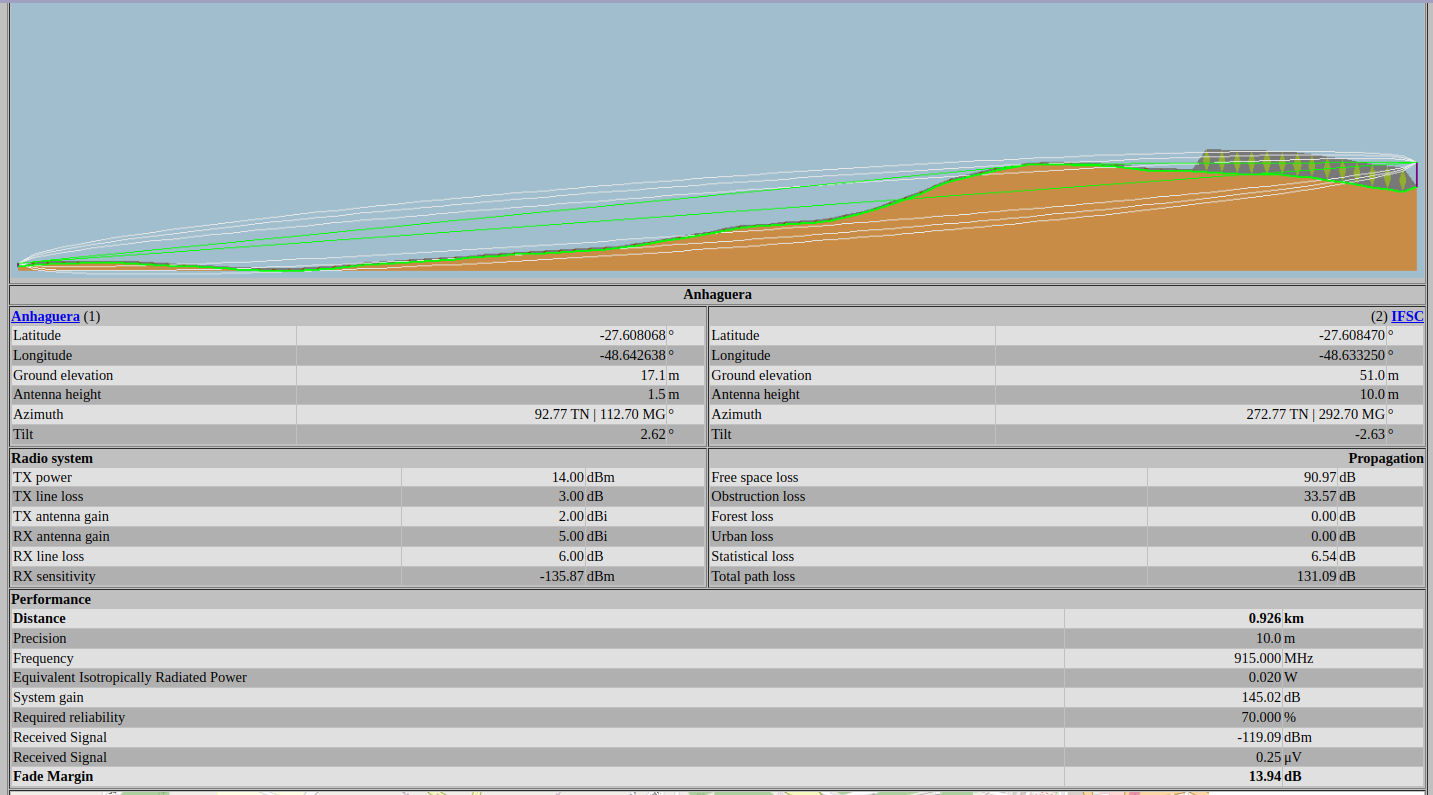
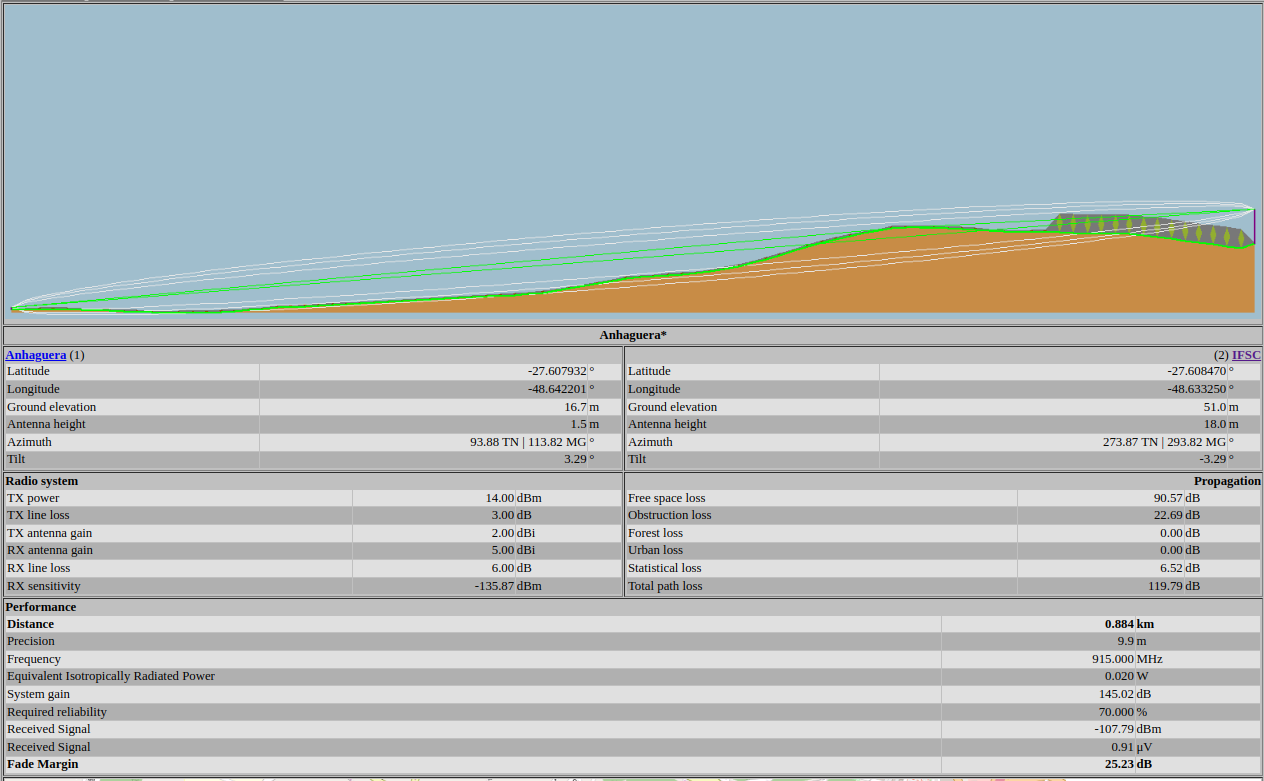
doc: Adicionando o mapa de calor

diff --git a/mapa_outdoor.html b/mapa_outdoor.html
@@ -25,7 +25,7 @@
             <meta name="viewport" content="width=device-width,
                 initial-scale=1.0, maximum-scale=1.0, user-scalable=no" />
             <style>
-                #map_121a8825ffa46cb51c034f2e1f05a461 {
+                #map_eda21be7cce033aeb74207998251bbf0 {
                     position: relative;
                     width: 100.0%;
                     height: 100.0%;
@@ -40,14 +40,14 @@
 <body>
     
     
-            <div class="folium-map" id="map_121a8825ffa46cb51c034f2e1f05a461" ></div>
+            <div class="folium-map" id="map_eda21be7cce033aeb74207998251bbf0" ></div>
         
 </body>
 <script>
     
     
-            var map_121a8825ffa46cb51c034f2e1f05a461 = L.map(
-                "map_121a8825ffa46cb51c034f2e1f05a461",
+            var map_eda21be7cce033aeb74207998251bbf0 = L.map(
+                "map_eda21be7cce033aeb74207998251bbf0",
                 {
                     center: [-27.606824, -48.623519],
                     crs: L.CRS.EPSG3857,
@@ -61,20 +61,20 @@
 
         
     
-            var tile_layer_2cdb3e89974e2c58b5be6eeca0de30e6 = L.tileLayer(
+            var tile_layer_e6294b6735290ec2152f6161271766a2 = L.tileLayer(
                 "https://{s}.tile.openstreetmap.org/{z}/{x}/{y}.png",
                 {"attribution": "Data by \u0026copy; \u003ca target=\"_blank\" href=\"http://openstreetmap.org\"\u003eOpenStreetMap\u003c/a\u003e, under \u003ca target=\"_blank\" href=\"http://www.openstreetmap.org/copyright\"\u003eODbL\u003c/a\u003e.", "detectRetina": false, "maxNativeZoom": 18, "maxZoom": 18, "minZoom": 0, "noWrap": false, "opacity": 1, "subdomains": "abc", "tms": false}
             );
         
     
-                tile_layer_2cdb3e89974e2c58b5be6eeca0de30e6.addTo(map_121a8825ffa46cb51c034f2e1f05a461);
+                tile_layer_e6294b6735290ec2152f6161271766a2.addTo(map_eda21be7cce033aeb74207998251bbf0);
     
-            var heat_map_ca6dc668bcdccb97c3d18f38a053e0ac = L.heatLayer(
-                [[-27.5957679, -48.6438065, 0.0874529333171384], [-27.6077626, -48.661695, 0.34009474067776013], [-27.6089226, -48.6418569, 0.5317307336857506], [-27.6075539, -48.6390241, 0.0], [-27.6042976, -48.6357047, 1.0]],
+            var heat_map_68692c0c6d5f5d441a361070a9348030 = L.heatLayer(
+                [[-27.6077626, -48.661695, 0.34009474067776013], [-27.6075539, -48.6390241, 0.0], [-27.6089226, -48.6418569, 0.5317307336857506], [-27.5957679, -48.6438065, 0.0874529333171384], [-27.6042976, -48.6357047, 1.0]],
                 {"blur": 15, "gradient": {"0.2": "deepskyblue", "0.4": "aqua", "0.6": "lime", "0.8": "gold", "0.9": "orange", "1.0": "red"}, "maxZoom": 18, "minOpacity": 0.3, "radius": 30}
             );
         
     
-                heat_map_ca6dc668bcdccb97c3d18f38a053e0ac.addTo(map_121a8825ffa46cb51c034f2e1f05a461);
+                heat_map_68692c0c6d5f5d441a361070a9348030.addTo(map_eda21be7cce033aeb74207998251bbf0);
 </script>
 </html>

diff --git a/main.py b/main.py
@@ -10,10 +10,6 @@ basedir = os.path.abspath(os.path.dirname(__file__))
 PotTx = 13.89
 
 
-def modelo(distancias, N, d0, pl_d0):
-    return pl_d0 - (10 * N * np.log10(np.divide(distancias, d0)))
-
-
 def coleta_dados(path):
     files = os.listdir(f"{basedir}/{path}")
 
@@ -57,13 +53,10 @@ def processa_dados(df: pd.DataFrame, d0, rssi_0):
     return parametro
 
 
-# df_indoor = coleta_dados('data/indoor')
 df_outdoor = coleta_dados("data/outdoor")
 
-# parametro_indoor = processa_dados(df_indoor, 52.29, -80.888889)
 parametro_outdoor = processa_dados(df_outdoor, 407.45, -77.800000)
 
-# print(parametro_indoor)
 print(parametro_outdoor)
 
 
@@ -74,21 +67,3 @@ cria_mapa(
     radius=30,
     centro=[-27.606824, -48.623519],
 )
-
-
-print("\n\nPrevisão a cada 500 metros")
-distancias = np.arange(1, 3502, 500)
-rssis = modelo(distancias=distancias, N=2.519, d0=407.45, pl_d0=-77.800000)
-std = df_outdoor["RSSI"].std()
-print(std)
-for rssi in rssis:
-    rssi = rssi + np.random.normal(0, std)  # Soma da variável aleatória gaussiana
-    print(f"{rssi}")
-
-print("\n\nPrevisão das distancias medidas")
-rssis_calculado = modelo(
-    distancias=df_outdoor["Distc"], N=2.519, d0=407.45, pl_d0=-77.800000
-)
-for rssi in rssis_calculado:
-    rssi = rssi + np.random.normal(0, std)  # Soma da variável aleatória gaussiana
-    print(f"{rssi}")

diff --git a/calculo_perda.py b/calculo_perda.py
@@ -8,16 +8,16 @@ def perda_caminho(distancias, perdas, d0, pl_d0):
 
     def loss_function(params):
         y_pred = modelo(distancias, *params)
-        mse = np.sum((perdas - y_pred)**2)
+        mse = np.sum((perdas - y_pred) ** 2)
         return mse
 
     p0 = 2  # Valor inicial para o expoente N
-    result = minimize(loss_function, p0, method='Nelder-Mead')
+    result = minimize(loss_function, p0, method="Nelder-Mead")
     return result
 
 
 dist = [100, 200, 1000, 3000]
 rssi = [0, -20, -35, -70]
 
-n = perda_caminho(distancias=dist, perdas=rssi, d0=100, pl_d0= 0)
+n = perda_caminho(distancias=dist, perdas=rssi, d0=100, pl_d0=0)
 print(n)

diff --git a/README.md b/README.md
@@ -17,7 +17,7 @@ A perda de caminho média em grande escala para uma separação transmissor ($T_
 $$ \overline{PL}(dB) = \overline{PL}(d_0) + 10n\log_{}\left(\frac{d}{d_0}\right)
 $$
 
-onde:
+Onde:
 - $\overline{PL}(dB)$ é a perda de caminho estimado em $dB$
 - $\overline{PL}(d_0)$ é a perda de caminho na distância de referência em $dB$
 - $n$ é expoente de perda de caminho que indica a velocidade com a qual essa perda aumenta com relação à distância e depende do ambiente de propagação específico.
@@ -25,15 +25,26 @@ onde:
 - $d$ é a distância de separação $T_x-R_x$
 - As barras na equação indicam a média conjunta de todos os valores possíveis de perda de caminho para determinado valor de $d$.
 
-### Sombreamento log-normal
+### Modelo de Friis
+Para realizar o cálculo do expoente de perda, primeiro deve-se encontrar a potência recebida na distância de referência ($d_0$). Por meio da equação abaixo:
 
-<!-- a equação anterior não considera o fato de o ruído ambiental ao redor pode ser diferente em dois locais distintos tendo a mesma separação $T-R$, o que leva a sinais medidos diferentes do valor médio da equação anterior -->
+$$ P_r(d) = \frac{P_t * G_t * G_r * \lambda^2}{(4\pi)^2 * d^2 * L}
+$$
 
-A distribuição log-normal descreve os efeitos aleatórios do sombreamento, que ocorrem em vários locais próximos que possuem a separação $T_x-R_x$ , mas com diferentes níveis de ruído no caminho de propagação. O sombreamento log-normal implica que os níveis de sinal medidos em uma separação $T_x-R_x$ específica seguem uma distribuição gaussiana (normal) em torno da média que depende da distância.
+Onde:
+- $P_r(d)$ é a potência recebida em $W$, a uma determinada distância $d$ em $m$.
+- $P_t$ é a potência transmitida em $W$.
+- $G_t$ é o ganho da antena transmissora em $W$.
+- $G_r$ é o ganho da antena receptora em $W$.
+- $\lambda$ é o comprimento da onda em $m$.
+- $d$ é a distância em $m$.
+- $L$ é a soma das perdas nas linhas do $T_x$ e $R_x$ em $W$.
 
-## Cálculos
+### Cáluclo do expoente de perna $(n)$
 
-@TODO
+$$ J(n) = \sum_{i=1}^k (P_i - E_i)^2$$
+
+$$ E_i = P_0 - 10*n * \log_{10}(\frac{d_i}{d_0})$$
 
 ## Medições
 
@@ -53,45 +64,86 @@ Na tabela a seguir são apreentados os valores de latitude e longitude dos ponto
 
 Os pontos das medições *outdoor* foram utilizados para simulação com o *software* *Radio Mobile* e os resultados podem ser conferidos no diretório [radio-mobile](./radio-mobile/).
 
-## Comparação entre dados calculados, simulados e medidos
+## Comparação entre dados simulados e medidos
 
-A tabela a seguir apresenta uma comparação dos valores de Potência Recebida (RSSI) e Perda de caminho (PL) entre o dados calculados, simulados e medidos.
+A tabela a seguir apresenta uma comparação dos valores de Potência Recebida (RSSI) e Perda de caminho (PL) entre o dados simulados e medidos.
 
-| Local               | RSSI calculado (dBm) | PL calculado (dB)  | RSSI simulada (dBm)  | PL simulada (dB) | RSSI medido (dBm) | PL medido (dB) |
-|---------------------|----------------------|--------------------|----------------------|------------------|-------------------|----------------|
-| Milium              | -110                 | 122.935455         | -90.85               | 102.83           | -109.045455       | 122.935455     |
-| Florifarma          | -100                 | 114.980909         | -97.71               | 109.71           | -101.090909       | 114.980909     |
-| Bradesco            | -104.5               | 120.890000         | -88.72               | 100.73           | -107.000000       | 120.890000     |
-| Imobiliária Ideal   | -84                  | 99.546250          | -73.66               | 85.64            | -85.6562500       | 99.5462500     |
-| Anhanguera          | -91                  | 110.498696         | -119.09              | 131.09           | -96.6086960       | 110.498696     |
+| Local               | RSSI simulada (dBm)  | PL simulada (dB) | RSSI medido (dBm) | PL medido (dB) |
+|---------------------|----------------------|------------------|-------------------|----------------|
+| Milium              | -86.92               | -                | -109.045455       | 122.935455     |
+| Florifarma          | -97.71               | 109.71           | -101.090909       | 114.980909     |
+| Bradesco            | -88.72               | 100.73           | -107.000000       | 120.890000     |
+| Imobiliária Ideal   | -80.08               | -                | -85.6562500       | 99.5462500     |
+| Anhanguera          | -107.79              | 119.79           | -96.6086960       | 110.498696     |
+
+
+## Cálculos
+
+### Potência recebida no ponto de referência:
+
+$$ P_r(235) = \frac{0,025 * 1,584 * 3,162 * 0,32^2}{157,91 * 55.225 * 7,943} =>
+
+\frac{0,134}{69,267 * 10^6}
+$$
+
+$$
+P_r(235) = 1,934 * 10^{-10} W =>  -67,134 dBm
+
+$$
+
+
+### Expoente de perda $(n)$
+
+Utilizando o código abaixo, obteve-se o valor de $n$ simulado e medido:
+
+```matlab
+clear all; close all; clc;
+
+syms n
+
+% Potências calculadas no RadioMobile
+
+A = [235 -67.134    % Ponto de referência
+    461 -80.08      % imobiliaria ideal
+    1204 -86.92     % Millium
+    1786 -88.72     % Bradesco
+    2779 -97.71];   % Florifarma
+
+% Potência medida
+
+B = [235 -67.12     % Ponto de referência
+    461 -84         % Imobiliária Ideal
+    926 -91         % Anhanguera
+    1786 -104.5];   % Bradesco
+
+J = 0;
+for i = 1:5
+   Ei(i) = A(1,2) - 10*n*log10(A(i,1)/A(1,1));
+   J = J + (A(i,2)-Ei(i))^2;
+end
+
+J2 = diff(J);
+N = double(solve(J2,n))
+
+J = 0;
+for i = 1:4
+   Ei(i) = B(1,2) - 10*n*log10(B(i,1)/B(1,1));
+   J = J + (B(i,2)-Ei(i))^2;
+end
+
+J2 = diff(J);
+N = double(solve(J2,n))
+```
+
+#### Resultados:
+
+|   | Simualdo | Medido |
+|:-:|:--------:|:------:|
+| n | 2.7682   | 4.2829 |
 
 
 
-<!-- > 1. Valores obtidos adicionando uma variável aleatória gaussiana de média 0 e desvio padrão de 10,91 ao valor calculado, então podem mudar a cada execução.
-> 2. Simulação realizada no software *Radio Mobile*  -->
 
-<!-- ## Parâmetros obtidos
-A partir do método de minimização de erro MSE utilizado no código, o valor do parâmetro N obtido está representado na tabela abaixo.
+# Mapa de Calor
 
-|        | p0 ($dB$) | d0 (m)  | N     |
-|--------|------------|---------|-------|
-| Outdoor| -77,8      | -80,89  | 2,519 | -->
-
-<!-- ## Mapa de calor
-
-Com o N estimado pela minimização citada acima, foram obtidos estes valores de RSSI (estes valores utilizam uma variável aleatória gaussiana e podem mudar a cada execução).
-
-| Distância (m) | RSSI ($dB$)          |
-|-----------|---------------|
-| 1         | -21.42376652  |
-| 500       | -89.43267884  |
-| 1000      | -97.00470094  |
-| 1500      | -101.43679616 |
-| 2000      | -104.58218069 |
-| 2500      | -107.02225042 |
-| 3000      | -109.01609695 |
-| 3500      | -110.70196579 |
-
-Abaixo o mapa de calor:
-
-![](mapa.png) -->
+![](./data/Mapa_Calor.png)
